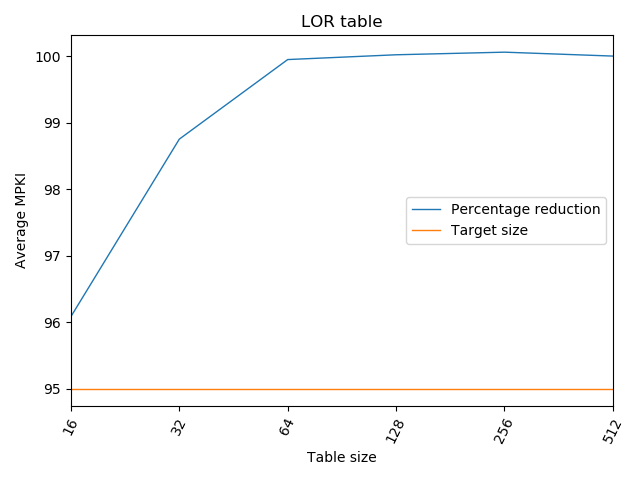
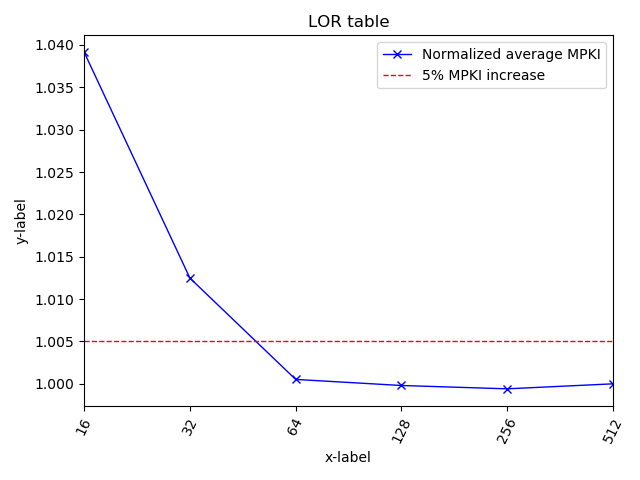
adding config file to generate the plot

diff --git a/table_sizes/plot.py b/table_sizes/plot.py
@@ -11,28 +11,24 @@ def percent(base, offset, rev = 0):
     return float((offset-base)/base/1.0*100)
     
 
-def parse_args():
-  usage = "usage: %prog --path [path to the directory with reports] --list [list of reports to process] --label [plot label] --output [output plot name]"
-  parser = optparse.OptionParser(usage=usage)
-  parser.add_option('--path', action="store", dest="path")
-  parser.add_option('--list', action="store", dest="list")
-  parser.add_option('--output', action="store", dest="output")
-  parser.add_option('--label', action="store", dest="label")
-
-  options, remainder = parser.parse_args()
-
-  if options.path == None or options.list == None or options.output == None or options.label == None:
-    print(usage)
-    return None
+def parse_args(cfg_file):
+  options = {}
+  with open(cfg_file, "r") as infile:
+    for line in infile:
+       kv = line.strip().split(":")
+       k = kv[0]
+       v = kv[1]
+       options[k] = v
   
   return options
 
-def gen_plot_mpki(path, r_list, plot_title, plot_output):
+def gen_plot_mpki(path, r_list, plot_output, target, mll, tll, pl, xl, yl):
   # get data
   data = []
   data_labels = []
   mpkis = {}
   sizes = []
+  target = float(target)
   with open(r_list, "r") as report_list:
     for rl in report_list:
       rl = rl.strip().split()
@@ -97,35 +93,44 @@ def gen_plot_mpki(path, r_list, plot_title, plot_output):
 
     avg.append(float(s/d/1.0))
 
-  perc = []
+  data = []
   base = avg[len(indices)-1]
   print(base)
   for i in range(len(indices)-1):
     comp = avg[i]
-    perc_diff = (comp-base)/base/1.0*100
-    perc.append([100 - perc_diff, 95])
+    data.append([float(comp/base/1.0), target])
 
-  perc.append([100, 95])
+  data.append([1, target])
 
 
   print("Data ready: ")
-  print(perc)
+  print(data)
   print(avg)
   print("Plotting average MPKI vs size into file: {}.png".format(plot_output))
 
   # Convert data to pandas DataFrame.
-  df = pd.DataFrame(perc, index=indices_s, columns=['Percentage reduction', 'Target size'])
+  s = ["bx-", "r--"]
+  df = pd.DataFrame(data, index=indices_s, columns=[mll, tll])
 
-  ax = df.plot(kind='line', rot=64, lw=1)
-  ax.set_ylabel("Average MPKI")
-  ax.set_xlabel("Table size")
-  ax.set_title(plot_title)
+  ax = df.plot(kind='line', rot=64, lw=1, style=s)
+  ax.set_ylabel(yl)
+  ax.set_xlabel(xl)
+  ax.set_title(pl)
   plt.tight_layout()
   plt.savefig("{}.png".format(plot_output))
 
 def main():
-  args = parse_args()
+  cfg_file = sys.argv[1]
+  args = parse_args(cfg_file)
   if args != None:
-    gen_plot_mpki(args.path, args.list, args.label, args.output)
+    gen_plot_mpki(args["path"], \
+                  args["list"], \
+                  args["output"], \
+                  args["target"], \
+                  args["main_line_label"], \
+                  args["target_line_label"], \
+                  args["plot_label"], \
+                  args["xlabel"], \
+                  args["ylabel"])
 
 main()
